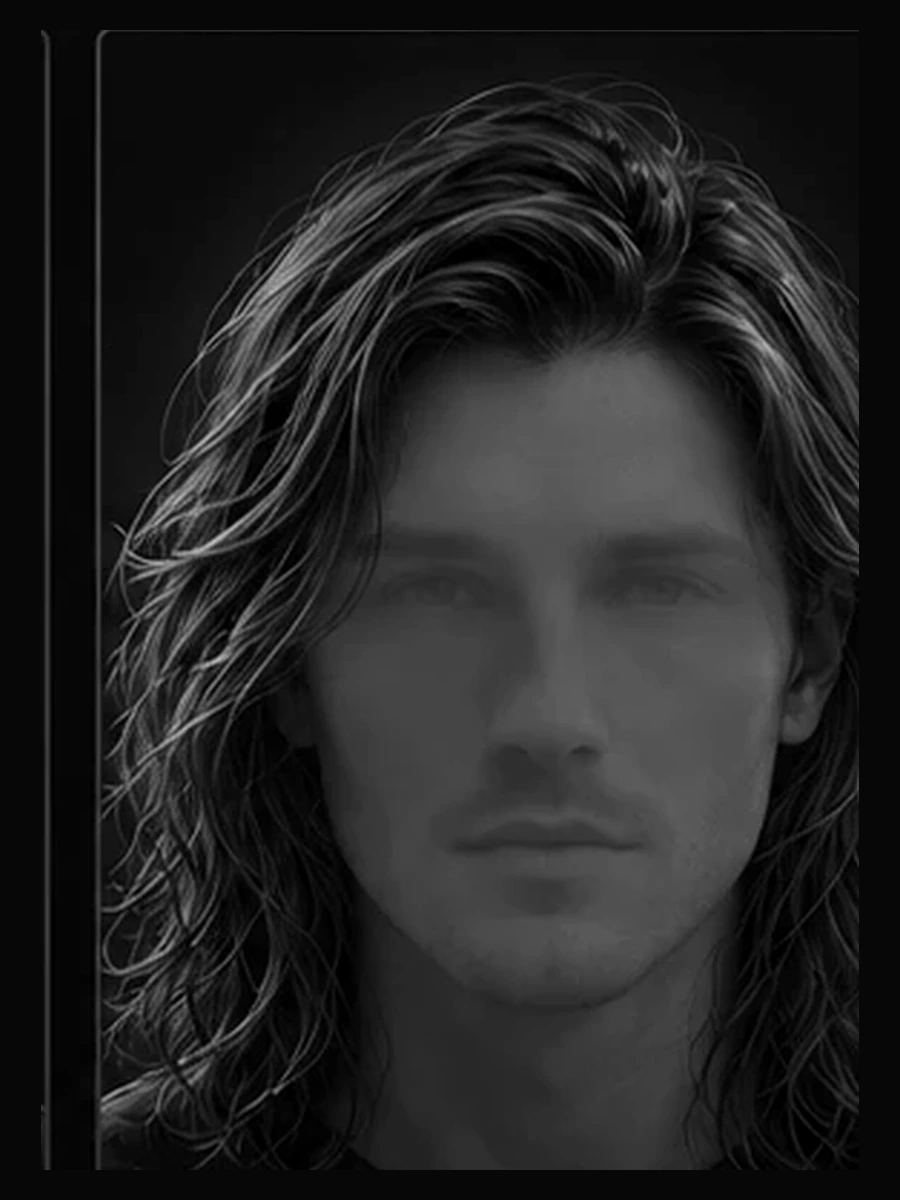
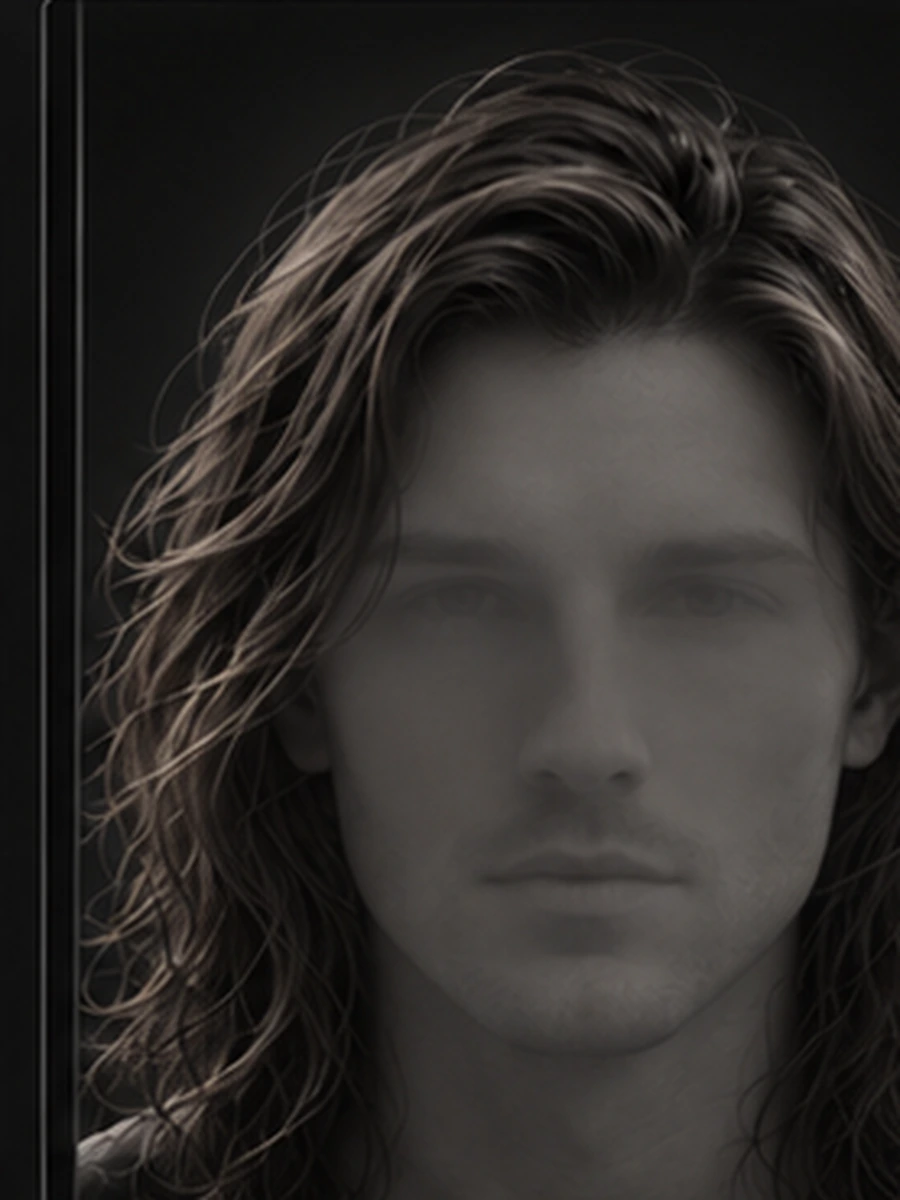
RockGod Alpha V0.4.1.2:

diff --git a/README.md b/README.md
@@ -34,3 +34,14 @@ Upload `index.html` and the entire `assets/` directory to the root of the existi
 ## V0.4.1.2 micro-patch
 - Beard reference portraits now use a muted grayscale / lower-contrast treatment to better match the Hair portrait set across Current Beard, Target Beard and downstream reference cards.
 - No flow, recommendation, copy or commercial logic changes in this patch.
+
+
+## V0.4.1.2 locked visual treatment
+
+Approved portrait rule:
+- same face identity and lighting across hair and beard rows
+- eyes and nose softened/recessive
+- hair/beard remain the strongest visual feature
+- black/charcoal background with muted grayscale portrait treatment
+- this approved treatment is now embedded in the hair and beard assets
+
